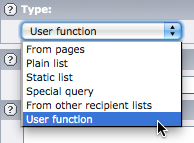
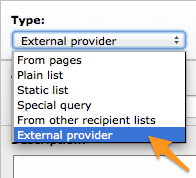
[TASK][UX] #53288: Rename "User function" and "itemsProcFunc"
git-svn-id: https://svn.typo3.org/TYPO3v4/Extensions/direct_mail_userfunc/trunk@81174 735d13b6-9817-0410-8766-e36946ffe9aa

diff --git a/ext_emconf.php b/ext_emconf.php
@@ -12,7 +12,7 @@
 
 $EM_CONF[$_EXTKEY] = array(
 	'title' => 'Direct Mail User Functions',
-	'description' => 'Adds support for user functions to Direct Mail. Currently allows recipient lists to be defined using a user function.',
+	'description' => 'Adds support for external providers to Direct Mail. It allows recipient lists to be defined using a user function.',
 	'category' => 'module',
 	'author' => 'Xavier Perseguers (Causal)',
 	'author_company' => 'Causal Sàrl',

diff --git a/Classes/Controller/Wizard.php b/Classes/Controller/Wizard.php
@@ -185,7 +185,7 @@ class Tx_DirectMailUserfunc_Controller_Wizard {
 	 * @param array $PA TCA configuration passed by reference
 	 * @return void
 	 */
-	static protected function addUserFunctionProviders(&$PA) {
+	static protected function addUserFunctionProviders(array &$PA) {
 		if (!count($GLOBALS['TYPO3_CONF_VARS']['EXTCONF']['direct_mail_userfunc']['userFunc'])) {
 			return;
 		}

diff --git a/Documentation/Introduction/Index.rst b/Documentation/Introduction/Index.rst
@@ -17,21 +17,17 @@ Introduction
 What does it do?
 ----------------
 
-This extension adds an entry "User function" to the drop-down list of
-Direct Mail's recipient list definition:
+This extension adds an entry "External provider" to the drop-down list of Direct Mail's recipient list definition:
 
 .. figure:: ../Images/type_userfunc.png
-	:alt: List of recipient prepared with a user function
+	:alt: List of recipient prepared with a provider
 
-This special type of recipient list lets you dynamically generate the
-list of recipients.
+This special type of recipient list lets you dynamically generate the list of recipients.
 
-In short, this means that with a standard user function, you are able
-to use any logic you wish to define the recipients. A typical example
-would be to read the information from an external source, such as a
-legacy application or a custom database table. Another example, if
-having an Extbase-based extension, would be to reuse your domain model
-and use it as a source to feed the recipient list.
+In short, this means that with a standard user function, you are able to use any logic you wish to define the
+recipients. A typical example would be to read the information from an external source, such as a legacy application or
+a custom database table. Another example, if having an Extbase-based extension, would be to reuse your domain model and
+use it as a source to feed the recipient list.
 
 
 .. _screenshots:
@@ -42,13 +38,11 @@ Screenshots
 .. figure:: ../Images/userfunc_overview.png
 	:alt: Overview of the configuration of a dynamic list of recipients
 
-#. Icon |valid| confirms that the itemsProcFunc definition is valid
-   (class ``user_testlist`` was found and method "myRecipientList"
-   exists).
+#. Icon |valid| confirms that the provider definition is valid (class ``user_testlist`` was found and method
+   "myRecipientList" exists).
 
-#. Icon |wizard| informs you that a wizard is available to configure the
-   additional parameters. Simply click on it to invoke a user-generated
-   script.
+#. Icon |wizard| informs you that a wizard is available to configure the additional parameters. Simply click on it to
+   invoke a user-generated script.
 
 .. |valid| image:: ../Images/valid.png
 	:alt: Valid user function
@@ -56,21 +50,22 @@ Screenshots
 .. |wizard| image:: ../Images/wizard.png
 	:alt: Wizard available
 
-In case either the class or the method was not found, an warning
-message is shown that explains what is wrong with the itemsProcFunc
-definition.
+In case either the class or the method was not found, an warning message is shown that explains what is wrong with the
+provider definition.
 
 User specified an invalid or not included class:
 
 .. figure:: ../Images/invalid_class.png
 	:alt: Invalid or not loaded class
+	:width: 711
 
 User specified a valid class but an invalid method:
 
 .. figure:: ../Images/invalid_method.png
 	:alt: Invalid method
+	:width: 711
 
-User functions may be registered to enhance the user experience:
+Providers may be registered to enhance the user experience:
 
 .. figure:: ../Images/registered_providers.png
 	:alt: Registered providers

diff --git a/Documentation/DeveloperManual/SampleUserFunctions/Index.rst b/Documentation/DeveloperManual/SampleUserFunctions/Index.rst
@@ -8,22 +8,22 @@
 
 .. _sample-user-functions:
 
-Sample User Functions
----------------------
+Sample Providers
+----------------
 
-Two wizards are provided in directory :file:`Samples` of the extension. To activate them, go to Extension Manager, click
-on extension Direct Mail User Functions, tick the corresponding checkbox and click on Update button:
+Three wizards are provided in directory :file:`Samples` of the extension. To activate them, go to Extension Manager,
+click on extension Direct Mail User Functions, tick the corresponding checkbox and click on Update button:
 
 .. figure:: ../../Images/enable_samples.png
 	:alt: Enable samples
 
-Once activated, you may use :php:`user_testList->myRecipientList` as itemsProcFunc. This user function has a simple user
+Once activated, you may use :php:`user_testList->myRecipientList` as provider. This provider has a simple user
 parameter wizard using standard JavaScript.
 
-Another user function :php:`user_testList_extjs->myRecipientList` is available. This is basically the same user function
+Another provider :php:`user_testList_extjs->myRecipientList` is available. This is basically the same provider
 as the previous one except that the user parameter wizard is using ExtJS framework.
 
-Finally, user function :php:`user_testList_tca->myRecipientList` shows how you may create enhanced wizard with a TCA
+Finally, provider :php:`user_testList_tca->myRecipientList` shows how you may create enhanced wizard with a TCA
 definition instead of a JavaScript-based wizard.
 
 .. figure:: ../../Images/tca.png

diff --git a/Documentation/DeveloperManual/RegisteringTheUserFunction/Index.rst b/Documentation/DeveloperManual/RegisteringTheUserFunction/Index.rst
@@ -8,11 +8,11 @@
 
 .. _registering-user-function:
 
-Registering the user function
------------------------------
+Registering the provider
+------------------------
 
-As shown in section :ref:`screenshots`, you have the opportunity to register your user function and add it to the
-registered providers selector:
+As shown in section :ref:`screenshots`, you have the opportunity to register your provider and add it to the selector of
+registered providers:
 
 .. figure:: ../../Images/registered_providers.png
 	:alt: Registered providers
@@ -29,7 +29,7 @@ Sample code to be added to your :file:`ext_tables.php` file:
 	    );
 	}
 
-This will add a new entry "Some Label" that fills in itemsProcFunc ``yourClass->yourMethod`` when selected:
+This will add a new entry "Some Label" that fills in provider ``yourClass->yourMethod`` when selected:
 
 .. figure:: ../../Images/new_provider.png
 	:alt: New provider

diff --git a/Documentation/DeveloperManual/AdditionalParameters/Index.rst b/Documentation/DeveloperManual/AdditionalParameters/Index.rst
@@ -11,16 +11,13 @@
 Additional parameters
 ---------------------
 
-When creating a recipient list from type user function, you have the
-possibility to specify additional parameters that will be passed as a
-single string arguments to the itemsProcFunc. Let's suppose the user
-specify this recipient list:
+When creating a recipient list from type external provider, you have the possibility to specify additional parameters
+that will be passed as a single string arguments to the provider. Let's suppose the user specify this recipient list:
 
 .. figure:: ../../Images/itemsprocfunc.png
-	:alt: itemsProcFunc
+	:alt: Custom provider as an itemsProcFunc
 
-Method ``myRecipientList`` will get additional parameter "18" and will be
-able to process it the way it likes:
+Method ``myRecipientList`` will get additional parameter "18" and will be able to process it the way it likes:
 
 .. code-block:: php
 

diff --git a/Documentation/DeveloperManual/AdditionalParameters/TCA.rst b/Documentation/DeveloperManual/AdditionalParameters/TCA.rst
@@ -62,7 +62,7 @@ Please refer to :ref:`['columns'] section in TCA reference <t3tca:columns>` for 
 fields. The 'ctrl' section is only needed if you wish to trigger an update of the form.
 
 .. note::
-	Type number "5" corresponds to a list of recipients defined as a user function, what we are dealing with here.
+	Type number "5" corresponds to a list of recipients defined as an external provider, what we are dealing with here.
 
 .. hint::
 	Method ``getWizardFields`` should return an empty array if no additional parameters are needed and ``NULL`` if the

diff --git a/Documentation/Index.rst b/Documentation/Index.rst
@@ -24,11 +24,11 @@ Direct Mail User Functions
 		en
 
 	:Description:
-		Adds support for user functions to Direct Mail. Currently allows recipient lists to be defined using a
+		Adds support for external providers to Direct Mail. It allows recipient lists to be defined using a
 		user function.
 
 	:Keywords:
-		direct_mail, dynamic list, user function
+		direct_mail, dynamic list, user function, external provider
 
 	:Copyright:
 		2009-2013
